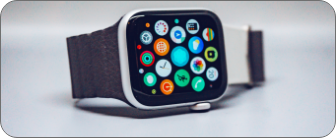
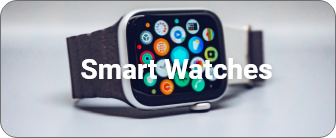
watch spot UI flutter app

Changed region(s): [[0.2381, 0.4058, 0.8333, 0.5797]]

diff --git a/lib/Screens/explore.dart b/lib/Screens/explore.dart
@@ -1,4 +1,5 @@
 import 'package:flutter/material.dart';
+import 'package:watch_spot/Screens/smart_watches.dart';
 
 class Explore extends StatefulWidget {
   const Explore({super.key});
@@ -35,12 +36,41 @@ class _ExploreState extends State<Explore> {
               width: 340,
             )),
         Container(
-          child: ElevatedButton(
-            onPressed: () {},
-            child: Image.asset('assets/images/SmartWatches.png'),
-            style: ButtonStyle(),
+          child: TextButton(
+            onPressed: () {
+              Navigator.push(
+                context,
+                MaterialPageRoute(builder: (context) => smartWatches()),
+              );
+            },
+            child: Image.asset("assets/images/SmartWatches.png"),
+            style: TextButton.styleFrom(maximumSize: Size(600, 800)),
           ),
-          margin: EdgeInsets.fromLTRB(10, 160, 0, 0),
+          padding: EdgeInsets.only(left: 20, top: 138),
+        ),
+        Container(
+          child: TextButton(
+            onPressed: () {},
+            child: Image.asset("assets/images/LuxuryWatches.png"),
+            style: TextButton.styleFrom(maximumSize: Size(600, 800)),
+          ),
+          padding: EdgeInsets.only(left: 20, top: 300),
+        ),
+        Container(
+          child: TextButton(
+            onPressed: () {},
+            child: Image.asset("assets/images/QuartzWatches.png"),
+            style: TextButton.styleFrom(maximumSize: Size(600, 800)),
+          ),
+          padding: EdgeInsets.only(left: 20, top: 460),
+        ),
+        Container(
+          child: TextButton(
+            onPressed: () {},
+            child: Image.asset("assets/images/AnaloguesWatches.png"),
+            style: TextButton.styleFrom(maximumSize: Size(600, 800)),
+          ),
+          padding: EdgeInsets.only(left: 20, top: 620),
         )
       ],
     );

diff --git a/lib/Screens/smart_watches.dart b/lib/Screens/smart_watches.dart
@@ -1,0 +1,36 @@
+import 'package:flutter/material.dart';
+
+class smartWatches extends StatefulWidget {
+  const smartWatches({super.key});
+
+  @override
+  State<smartWatches> createState() => _smartWatchesState();
+}
+
+class _smartWatchesState extends State<smartWatches> {
+  @override
+  Widget build(BuildContext context) {
+    return Scaffold(
+        backgroundColor: Color.fromRGBO(182, 182, 182, 1),
+        body: Container(
+          child: TextField(
+              cursorColor: Color.fromRGBO(232, 232, 232, 1),
+              decoration: InputDecoration(
+                fillColor: Color.fromRGBO(232, 232, 232, 1),
+                filled: true,
+                border: OutlineInputBorder(
+                    borderRadius: BorderRadius.circular(10),
+                    borderSide: BorderSide.none),
+                //hintText: 'Search',
+                hintStyle: TextStyle(color: Colors.grey, fontSize: 18),
+                contentPadding: EdgeInsets.only(left: 5),
+                prefixIcon: Container(
+                  // padding: EdgeInsets.only(right: 240),
+                  child: Icon(Icons.search),
+                ),
+              )),
+          padding: EdgeInsets.only(top: 60, left: 40),
+          width: 340,
+        ));
+  }
+}

diff --git a/lib/main.dart b/lib/main.dart
@@ -1,6 +1,7 @@
 import 'package:flutter/material.dart';
 import 'package:flutter_animated_button/flutter_animated_button.dart';
 import 'package:watch_spot/Screens/explore.dart';
+import 'package:watch_spot/Screens/smart_watches.dart';
 
 void main() {
   runApp(MaterialApp(
@@ -8,6 +9,7 @@ void main() {
     routes: {
       '/': (context) => GetStart(),
       '/explore': (context) => Explore(),
+      '/smart_watches': (context) => smartWatches(),
     },
   ));
 }
